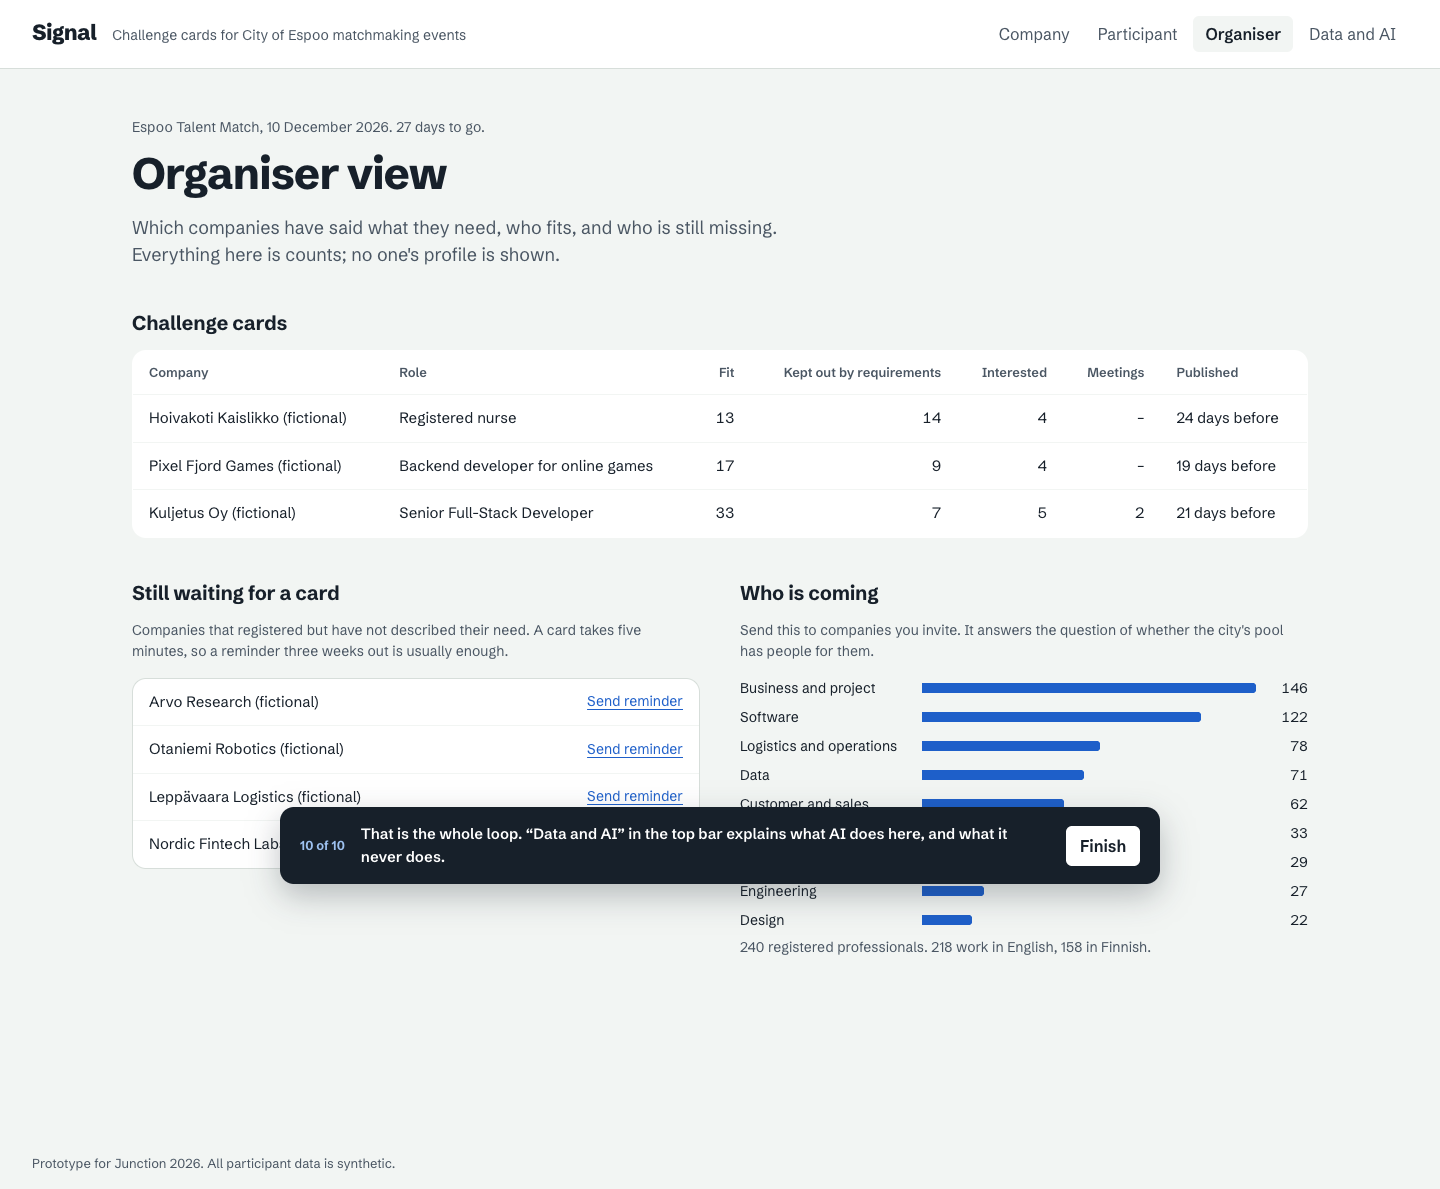
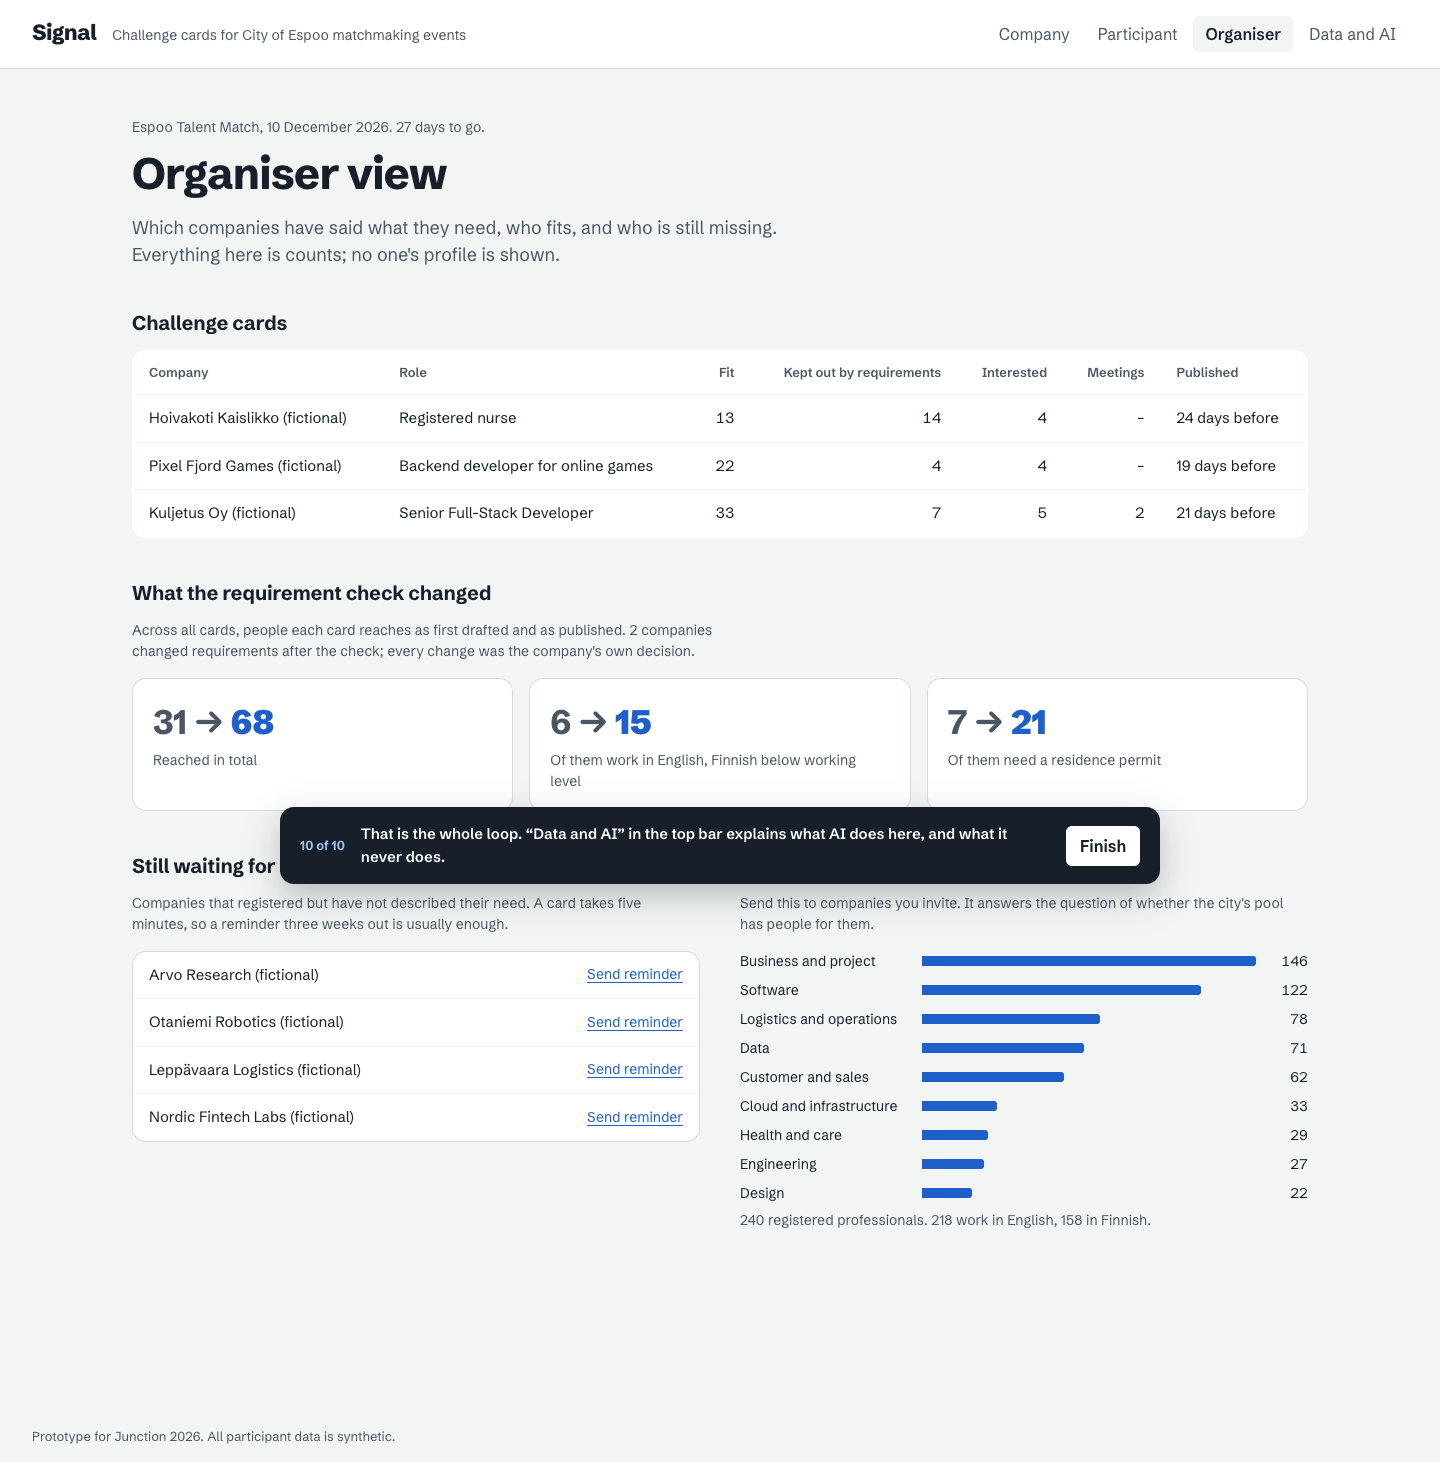
Signal check, organiser impact numbers, permit guidance

diff --git a/src/engine/signalCheck.ts b/src/engine/signalCheck.ts
@@ -1,0 +1,52 @@
+// Signal check: a writing coach, not a judge. It tells the writer whether a text carries signal (a concrete
+// detail, their own part, what changed) or noise (filler that any generator produces). Everyone gets the same
+// help, nothing is scored, nothing is detected as AI, and the reader never sees the result.
+
+export interface Check {
+  label: string
+  ok: boolean
+  tip: string
+}
+
+const FILLER = [
+  'passionate', 'team player', 'results-driven', 'results driven', 'synergy', 'leverage', 'proven track record',
+  'fast-paced', 'go-getter', 'self-starter', 'hard-working', 'hardworking', 'detail-oriented', 'dynamic',
+  'motivated', 'think outside the box', 'rockstar', 'ninja', 'world-class', 'cutting-edge', 'best-in-class',
+  'intohimo', 'dynaami', 'tiimipelaaja', 'innokas', 'motivoitunut', 'tuloshakuinen', 'paineensietokyk',
+]
+
+function filler(text: string): string | null {
+  const t = text.toLowerCase()
+  return FILLER.find((w) => t.includes(w)) ?? null
+}
+
+// Numbers, number words and units of time or size. Finnish stems carry no end boundary, since they inflect
+// ("kymmeneen", "tuhansia").
+const NUMBER =
+  /\d|\b(one|two|three|four|five|six|seven|eight|nine|ten|twenty|hundred|thousand|million|half|twice|dozen|minutes?|hours?|days?|weeks?|months?|years?)\b|\b(yk[sd]|kak[sd]|kolm|nelj|viid|viis|kuu[dst]|seitsem|kahdeks|yhdeks|kymmen|sa[dt]a|tuha[nt]|miljoon|puol|kerta|minuut|tunni|tunti|päiv|viiko|kuukau|vuo[dst])/i
+const OWN_PART = /\b(i|i'm|i've|i'd|my|me)\b|\b(tein|rakensin|siirsin|vastasin|johdin|korjasin|kehitin|suunnittelin|automatisoin|opetin|perehdytin|hoidin|kirjoitin|aloitin|vein|analysoin|toteutin)\b/i
+const CHANGE = /\b(so that|which (cut|saved|made|meant)|result|cut|reduced|increased|faster|slower|saved|stopped|went from|dropped|grew|halved|doubled|never|no longer|instead)\b|jotta|ansiosta|väheni|vähensi|nousi|lyheni|nopeutui|säästi|loppui|puolittui|kasvoi|tuplaantui/i
+
+/** For a participant's answer to "When did you do something like it?". */
+export function answerChecks(text: string): Check[] {
+  const f = filler(text)
+  return [
+    { label: 'A concrete detail', ok: NUMBER.test(text), tip: 'Add a number: how many, how big, how long, how much faster.' },
+    { label: 'Your own part', ok: OWN_PART.test(text), tip: 'Say what you did yourself, not only what the team did.' },
+    { label: 'What changed', ok: CHANGE.test(text), tip: 'Say what was different afterwards because of it.' },
+    { label: 'No filler', ok: !f, tip: f ? `“${f}” could describe anyone. Replace it with something you did.` : '' },
+  ]
+}
+
+const DUTY = /\b(responsible for|responsibilities|duties|tasks include|working with|work with|participate in|assist|support the)\b|vastaa[a-zäö]* |tehtäviin kuuluu|osallistu|avustaa/i
+const RESULT = /\d|\b(move|moved|build|built|cut|launch|launched|ship|shipped|migrate|migrated|automate|automated|reduce|reduced|set up|take ownership|taken ownership|train|lead|scale|documented|document|siirtää|siirretty|rakentaa|rakentanut|vähentää|julkaista|automatisoi|kouluttaa|johtaa)\b/i
+
+/** For a company's answer to "What should the new person have done after three months?". */
+export function outcomeChecks(text: string): Check[] {
+  const f = filler(text)
+  return [
+    { label: 'Results, not duties', ok: text.trim().length > 0 && !DUTY.test(text), tip: '“Responsible for X” is a duty. Say what is done or different after three months.' },
+    { label: 'Something you can check', ok: RESULT.test(text), tip: 'Name something you could point at in three months: moved, built, cut, launched.' },
+    { label: 'No filler', ok: !f, tip: f ? `“${f}” says little about the work. Describe the work instead.` : '' },
+  ]
+}

diff --git a/src/components/Organiser.tsx b/src/components/Organiser.tsx
@@ -2,13 +2,27 @@ import { useState } from 'react'
 import { EVENT } from '../data/event'
 import { POOL } from '../data/pool'
 import { SKILLS, type SkillGroup } from '../data/skills'
-import { summarize } from '../engine/match'
+import { reached, summarize } from '../engine/match'
 import type { ChallengeCard } from '../engine/types'
 import type { Decision, Interest } from '../engine/interests'
 
 export interface PublishedCard {
   card: ChallengeCard
   publishedAt: string
+  /** The card as first drafted, before the requirement check. */
+  original?: ChallengeCard
+}
+
+function Change({ before, after, label }: { before: number; after: number; label: string }) {
+  return (
+    <div className="change">
+      <p className="change-num">
+        {before} <span aria-hidden>→</span>
+        <span className="sr-only">to</span> <strong>{after}</strong>
+      </p>
+      <p className="change-label">{label}</p>
+    </div>
+  )
 }
 
 const GROUP_OF = Object.fromEntries(SKILLS.map((s) => [s.id, s.group])) as Record<string, SkillGroup>
@@ -37,6 +51,11 @@ export function Organiser({ cards, interestsFor, decisions }: { cards: Published
   const fiWorking = POOL.filter((p) => p.finnish >= 2).length
   const enWorking = POOL.filter((p) => p.english >= 2).length
   const published = new Set(cards.map((c) => c.card.company))
+  const before = cards.flatMap((c) => reached(POOL, c.original ?? c.card))
+  const after = cards.flatMap((c) => reached(POOL, c.card))
+  const english = (ps: typeof POOL) => ps.filter((p) => p.finnish < 2).length
+  const permit = (ps: typeof POOL) => ps.filter((p) => p.needsPermit).length
+  const changed = cards.filter((c) => c.original && reached(POOL, c.original).length !== reached(POOL, c.card).length).length
   const waiting = INVITED.filter((c) => !published.has(c))
 
   return (
@@ -80,6 +99,19 @@ export function Organiser({ cards, interestsFor, decisions }: { cards: Published
             ))}
           </tbody>
         </table>
+      </section>
+
+      <section>
+        <h2>What the requirement check changed</h2>
+        <p className="hint">
+          Across all cards, people each card reaches as first drafted and as published. {changed === 1 ? 'One company' : `${changed} companies`} changed
+          requirements after the check; every change was the company's own decision.
+        </p>
+        <div className="changes">
+          <Change before={before.length} after={after.length} label="Reached in total" />
+          <Change before={english(before)} after={english(after)} label="Of them work in English, Finnish below working level" />
+          <Change before={permit(before)} after={permit(after)} label="Of them need a residence permit" />
+        </div>
       </section>
 
       <div className="org-grid">

diff --git a/src/App.tsx b/src/App.tsx
@@ -25,6 +25,8 @@ const SEED: PublishedCard[] = SCENARIOS.filter((s) => s.id === 'care' || s.id ==
   card: extractLocal(s.answers).card,
   publishedAt: i === 0 ? '24 days before' : '19 days before',
 }))
+// The game studio accepted the check's degree suggestion before publishing.
+SEED[1] = { ...SEED[1], original: SEED[1].card, card: { ...SEED[1].card, requirements: { ...SEED[1].card.requirements, degree: 'none' } } }
 
 function loadCards(): PublishedCard[] {
   try {
@@ -49,6 +51,7 @@ export default function App() {
   const [tourStep, setTourStep] = useState(0)
   const [tourOpen, setTourOpen] = useState(true)
   const [initialReach, setInitialReach] = useState<number | null>(null)
+  const [original, setOriginal] = useState<ChallengeCard | null>(null)
   const currentReach = useMemo(() => (draft ? reach(POOL, draft.card) : null), [draft])
   const onTourStep = useCallback((n: number) => setTourStep(n), [])
   const tourState = useMemo(
@@ -92,6 +95,7 @@ export default function App() {
     const d = await draftCard(answers, ai)
     setDraft(d)
     setInitialReach(reach(POOL, d.card))
+    setOriginal(d.card)
     setPublished(false)
     setJustified(d.justified)
     setBusy(false)
@@ -100,7 +104,7 @@ export default function App() {
 
   const publish = () => {
     if (!draft) return
-    const entry = { card: draft.card, publishedAt: '21 days before' }
+    const entry: PublishedCard = { card: draft.card, publishedAt: '21 days before', original: original ?? draft.card }
     // Publishing the same company and role again replaces the earlier card.
     const own = [...cards.filter((c) => !SEED.includes(c) && cardKey(c.card) !== cardKey(draft.card)), entry]
     localStorage.setItem(STORE, JSON.stringify(own))

diff --git a/src/index.css b/src/index.css
@@ -1162,3 +1162,80 @@ th {
     padding: 6px 10px;
   }
 }
+
+/* Signal check */
+.signal-check {
+  margin-top: 4px;
+  padding: 10px 14px;
+  border-radius: var(--radius-s);
+  background: var(--surface);
+  border: 1px solid var(--line);
+  font-size: 14px;
+  max-width: 68ch;
+}
+.sc-title {
+  font-size: 12.5px;
+  color: var(--ink-2);
+  margin-bottom: 4px;
+}
+.signal-check ul {
+  list-style: none;
+  padding: 0;
+  margin: 0;
+  display: flex;
+  flex-wrap: wrap;
+  gap: 4px 16px;
+}
+.sc-ok {
+  color: var(--lake-dark);
+  font-weight: 600;
+}
+.sc-miss {
+  color: var(--ink-2);
+}
+.sc-tip {
+  margin-top: 6px;
+  color: var(--amber-ink);
+}
+
+/* Organiser: what the check changed */
+.changes {
+  display: grid;
+  grid-template-columns: repeat(3, 1fr);
+  gap: 16px;
+  margin-top: 16px;
+}
+.change {
+  background: var(--surface);
+  border: 1px solid var(--line);
+  border-radius: var(--radius-l);
+  padding: 18px 20px;
+}
+.change-num {
+  font-size: 34px;
+  font-weight: 750;
+  letter-spacing: -0.02em;
+  color: var(--ink-2);
+}
+.change-num strong {
+  color: var(--lake);
+}
+.change-label {
+  font-size: 14px;
+  color: var(--ink-2);
+  margin-top: 2px;
+}
+@media (max-width: 900px) {
+  .changes {
+    grid-template-columns: 1fr;
+  }
+}
+.intl-note {
+  margin-top: 10px;
+  font-size: 14px;
+  background: #e3ecf9;
+  color: var(--lake-dark);
+  border-radius: var(--radius-s);
+  padding: 8px 12px;
+  max-width: 80ch;
+}

diff --git a/src/engine/__tests__/engine.test.ts b/src/engine/__tests__/engine.test.ts
@@ -83,3 +83,22 @@ test('conversation brief gives three questions to each side', () => {
   assert.equal(b.company.length, 3)
   assert.equal(b.participant.length, 3)
 })
+
+import { answerChecks, outcomeChecks } from '../signalCheck'
+
+test('signal check: a specific answer passes, generic filler does not', () => {
+  const good = answerChecks('I moved our 12-year-old order system to AWS one module at a time, so customers never noticed the switch.')
+  assert.ok(good.every((c) => c.ok), JSON.stringify(good))
+  const vague = answerChecks('I am a passionate, results-driven team player with a proven track record in delivering value.')
+  assert.ok(vague.filter((c) => !c.ok).length >= 3, JSON.stringify(vague))
+})
+
+test('signal check works in Finnish', () => {
+  const fi = answerChecks('Siirsin vanhan laskutusjärjestelmän pilveen, jotta julkaisu nopeutui päivästä kymmeneen minuuttiin.')
+  assert.ok(fi.every((c) => c.ok), JSON.stringify(fi))
+})
+
+test('outcome check: duties are flagged, results are not', () => {
+  assert.ok(!outcomeChecks('Responsible for backend development and working with the team.')[0].ok)
+  assert.ok(outcomeChecks('Moved the warehouse system to the cloud without stopping deliveries.').every((c) => c.ok))
+})

diff --git a/src/components/Participant.tsx b/src/components/Participant.tsx
@@ -6,6 +6,8 @@ import { conversationBrief, slot, type Decision, type Interest } from '../engine
 import { evaluate } from '../engine/match'
 import type { ChallengeCard, Participant as P } from '../engine/types'
 import type { PublishedCard } from './Organiser'
+import { SignalCheck } from './SignalCheck'
+import { answerChecks } from '../engine/signalCheck'
 
 /** Plain-language reasons a card fits this person. */
 function why(p: P, card: ChallengeCard): string {
@@ -48,6 +50,7 @@ function InterestForm({ card, onSend }: { card: ChallengeCard; onSend: (outcome:
         {text.length}/{max}. Short and specific beats polished: the company reads this with your skills, without your
         name, and you talk about it face to face at the event.
       </p>
+      <SignalCheck checks={answerChecks(text)} empty={text.trim().length < 20} />
       <button className="primary" type="submit" disabled={text.trim().length < 40}>
         Send interest
       </button>

diff --git a/src/components/Tour.tsx b/src/components/Tour.tsx
@@ -54,7 +54,7 @@ const STEPS: Step[] = [
   },
   {
     text: 'On the logistics card, click “I am interested” and write two sentences about something similar you have done.',
-    why: 'No CV to polish with AI: a short, specific answer to the company’s own outcome, read without your name.',
+    why: 'No CV to polish with AI. The Signal check under the text coaches anyone toward a concrete, honest answer; generic filler shows up as noise, whoever wrote it.',
     done: (s) => s.interests > 0,
   },
   {
@@ -64,7 +64,7 @@ const STEPS: Step[] = [
   },
   {
     text: 'See the meeting from the participant’s side under “Participant”, then open “Organiser”.',
-    why: 'Organisers see cards, interest, meetings and which companies still have no card.',
+    why: 'Organisers see what the requirement check changed: how many more people the cards reach, and how many of them work in English.',
     done: (s) => s.view === 'organiser',
   },
   {

diff --git a/src/components/Inbox.tsx b/src/components/Inbox.tsx
@@ -98,6 +98,14 @@ export function Inbox({ card, interests, decisions, onDecide }: Props) {
                         <li key={q}>{q}</li>
                       ))}
                     </ul>
+                    {(i.participant.needsPermit || !i.participant.livesInFinland) && (
+                      <p className="intl-note">
+                        {i.participant.needsPermit ? 'This person would need a residence permit for work. ' : ''}
+                        {!i.participant.livesInFinland ? 'They live outside Finland today. ' : ''}
+                        Specialists can get a permit through the fast track in about two weeks, and the City of Espoo’s
+                        International Working Life Services can guide you through hiring and relocation. Ask the organisers at the event.
+                      </p>
+                    )}
                   </div>
                 </li>
               )

diff --git a/src/components/SignalCheck.tsx b/src/components/SignalCheck.tsx
@@ -1,0 +1,21 @@
+import type { Check } from '../engine/signalCheck'
+
+/** Shows the writer what their text carries. Never blocks sending, never shown to the reader. */
+export function SignalCheck({ checks, empty }: { checks: Check[]; empty: boolean }) {
+  if (empty) return null
+  const firstMissing = checks.find((c) => !c.ok)
+  return (
+    <div className="signal-check" aria-live="polite">
+      <p className="sc-title">Signal check, only you see this</p>
+      <ul>
+        {checks.map((c) => (
+          <li key={c.label} className={c.ok ? 'sc-ok' : 'sc-miss'}>
+            <span aria-hidden>{c.ok ? '●' : '○'}</span> {c.label}
+            <span className="sr-only">{c.ok ? ': yes' : ': not yet'}</span>
+          </li>
+        ))}
+      </ul>
+      {firstMissing && <p className="sc-tip">{firstMissing.tip}</p>}
+    </div>
+  )
+}

diff --git a/src/components/Describe.tsx b/src/components/Describe.tsx
@@ -4,6 +4,8 @@ import { POOL } from '../data/pool'
 import { SCENARIOS } from '../data/scenarios'
 import type { CompanyAnswers } from '../engine/types'
 import { Room } from './Room'
+import { SignalCheck } from './SignalCheck'
+import { outcomeChecks } from '../engine/signalCheck'
 
 interface Props {
   answers: CompanyAnswers
@@ -115,6 +117,7 @@ export function Describe({ answers, onChange, onSubmit, busy, ai }: Props) {
             </div>
             <textarea id={q.key} rows={q.rows} value={answers[q.key]} onChange={(e) => set(q.key, e.target.value)} />
             <p className="hint">{q.hint}</p>
+            {q.key === 'outcomes' && <SignalCheck checks={outcomeChecks(answers.outcomes)} empty={answers.outcomes.trim().length < 15} />}
           </div>
         ))}
         <div className="submit-row">

diff --git a/src/engine/match.ts b/src/engine/match.ts
@@ -81,3 +81,11 @@ export function reach(pool: Participant[], card: ChallengeCard): number {
   const s = summarize(pool, card)
   return s.strong + s.close
 }
+
+/** The people a card reaches (strong or close). */
+export function reached(pool: Participant[], card: ChallengeCard): Participant[] {
+  return pool.filter((p) => {
+    const s = evaluate(p, card).status
+    return s === 'strong' || s === 'close'
+  })
+}

diff --git a/SUBMISSION.md b/SUBMISSION.md
@@ -9,6 +9,14 @@ Junction 2026 submission for the City of Espoo challenge "Rethinking Recruitment
 
 A hiring manager answers three questions in their own words. Signal turns the answers into a challenge card, shows right away how many registered event participants fit it, and points out the requirements that keep capable people out.
 
+## Our answer to AI-generated noise
+
+We do not try to detect AI text: detectors are unreliable and penalise people writing in their second language. Instead Signal changes what is asked and helps everyone answer it well:
+
+- Companies describe **outcomes after three months**, not duties. Participants answer **one of those outcomes** in two or three sentences instead of sending a CV. A generic text has nothing to attach to.
+- The **Signal check** coaches every writer, company and participant alike, toward signal: a concrete detail, their own part, what changed, no filler. It works in English and Finnish, never blocks sending, never scores anyone, and the reader never sees it. Whoever or whatever wrote "passionate, results-driven team player", the check shows it as noise.
+- The answer is discussed face to face at the event, which is where a polished text meets the real person.
+
 ## The problem we picked
 
 Espoo listed the company side first, and so do we:
@@ -27,8 +35,8 @@ Most solutions start from the jobseeker's CV. Signal starts from the company, be
 3. **The room.** 240 dots, one for each registered participant (synthetic data). They light up live as the card changes: blue for a fit, light blue for a fit through related skills, amber for people who have the skills but are kept out by a requirement. The company sees counts, never profiles.
 4. **Requirement check.** Signal flags requirements that keep capable people out without a stated reason, with a question back to the company and the number of people each change would add. Hovering a suggestion previews exactly which dots would change. The company decides; nothing changes automatically. When the company gave a real reason, for example Finnish for a nurse who talks with elderly residents every day, Signal respects it and does not flag it.
 5. **Participant view.** Participants see only the cards that fit them, with a plain reason ("You have SQL; Java is close to backend"). No CV to polish: to show interest they pick one of the company's outcomes and say, in two or three sentences and in any language, when they did something like it. The company reads that with the skills, without a name. Cards a person is kept out of by a requirement stay hidden, and the organisers see how many.
-6. **Organiser view.** Every card with how many participants fit it, how many are kept out by requirements and how many are interested; the companies still without a card, with a reminder; and a "who is coming" summary to send to companies they are inviting.
-7. **Company inbox and meetings.** A week before the event the company reads the answers: the outcome each person picked, their own words, the card's skills they have, and only the facts the card asks about. Shown in the order they arrived; Signal ranks no one. "Meet at the event" books a 15-minute slot, and both sides get three conversation questions built from the card and the answer, so the meeting goes to the work, not small talk. The participant sees the time and their questions in their own view.
+6. **Organiser view.** Every card with fit, people kept out by requirements, interest and meetings; **what the requirement check changed** across all cards (in the demo: 31 → 68 people reached, of them working in English 6 → 15); the companies still without a card, with a reminder; and a "who is coming" summary to send to companies they are inviting.
+7. **Company inbox and meetings.** A week before the event the company reads the answers: the outcome each person picked, their own words, the card's skills they have, and only the facts the card asks about. Shown in the order they arrived; Signal ranks no one. "Meet at the event" books a 15-minute slot, and both sides get three conversation questions built from the card and the answer, so the meeting goes to the work, not small talk. The participant sees the time and their questions in their own view. When the person would need a residence permit, the meeting card tells the company about the specialist fast track and the city's International Working Life Services.
 
 In the logistics example, the card as first written reaches **1** of 240 participants. After the requirement check it reaches **33**, and the company decided each change. One of the people it now reaches is a backend developer who moved to Espoo last year and speaks basic Finnish: the card as first written would never have shown up for them.
 
